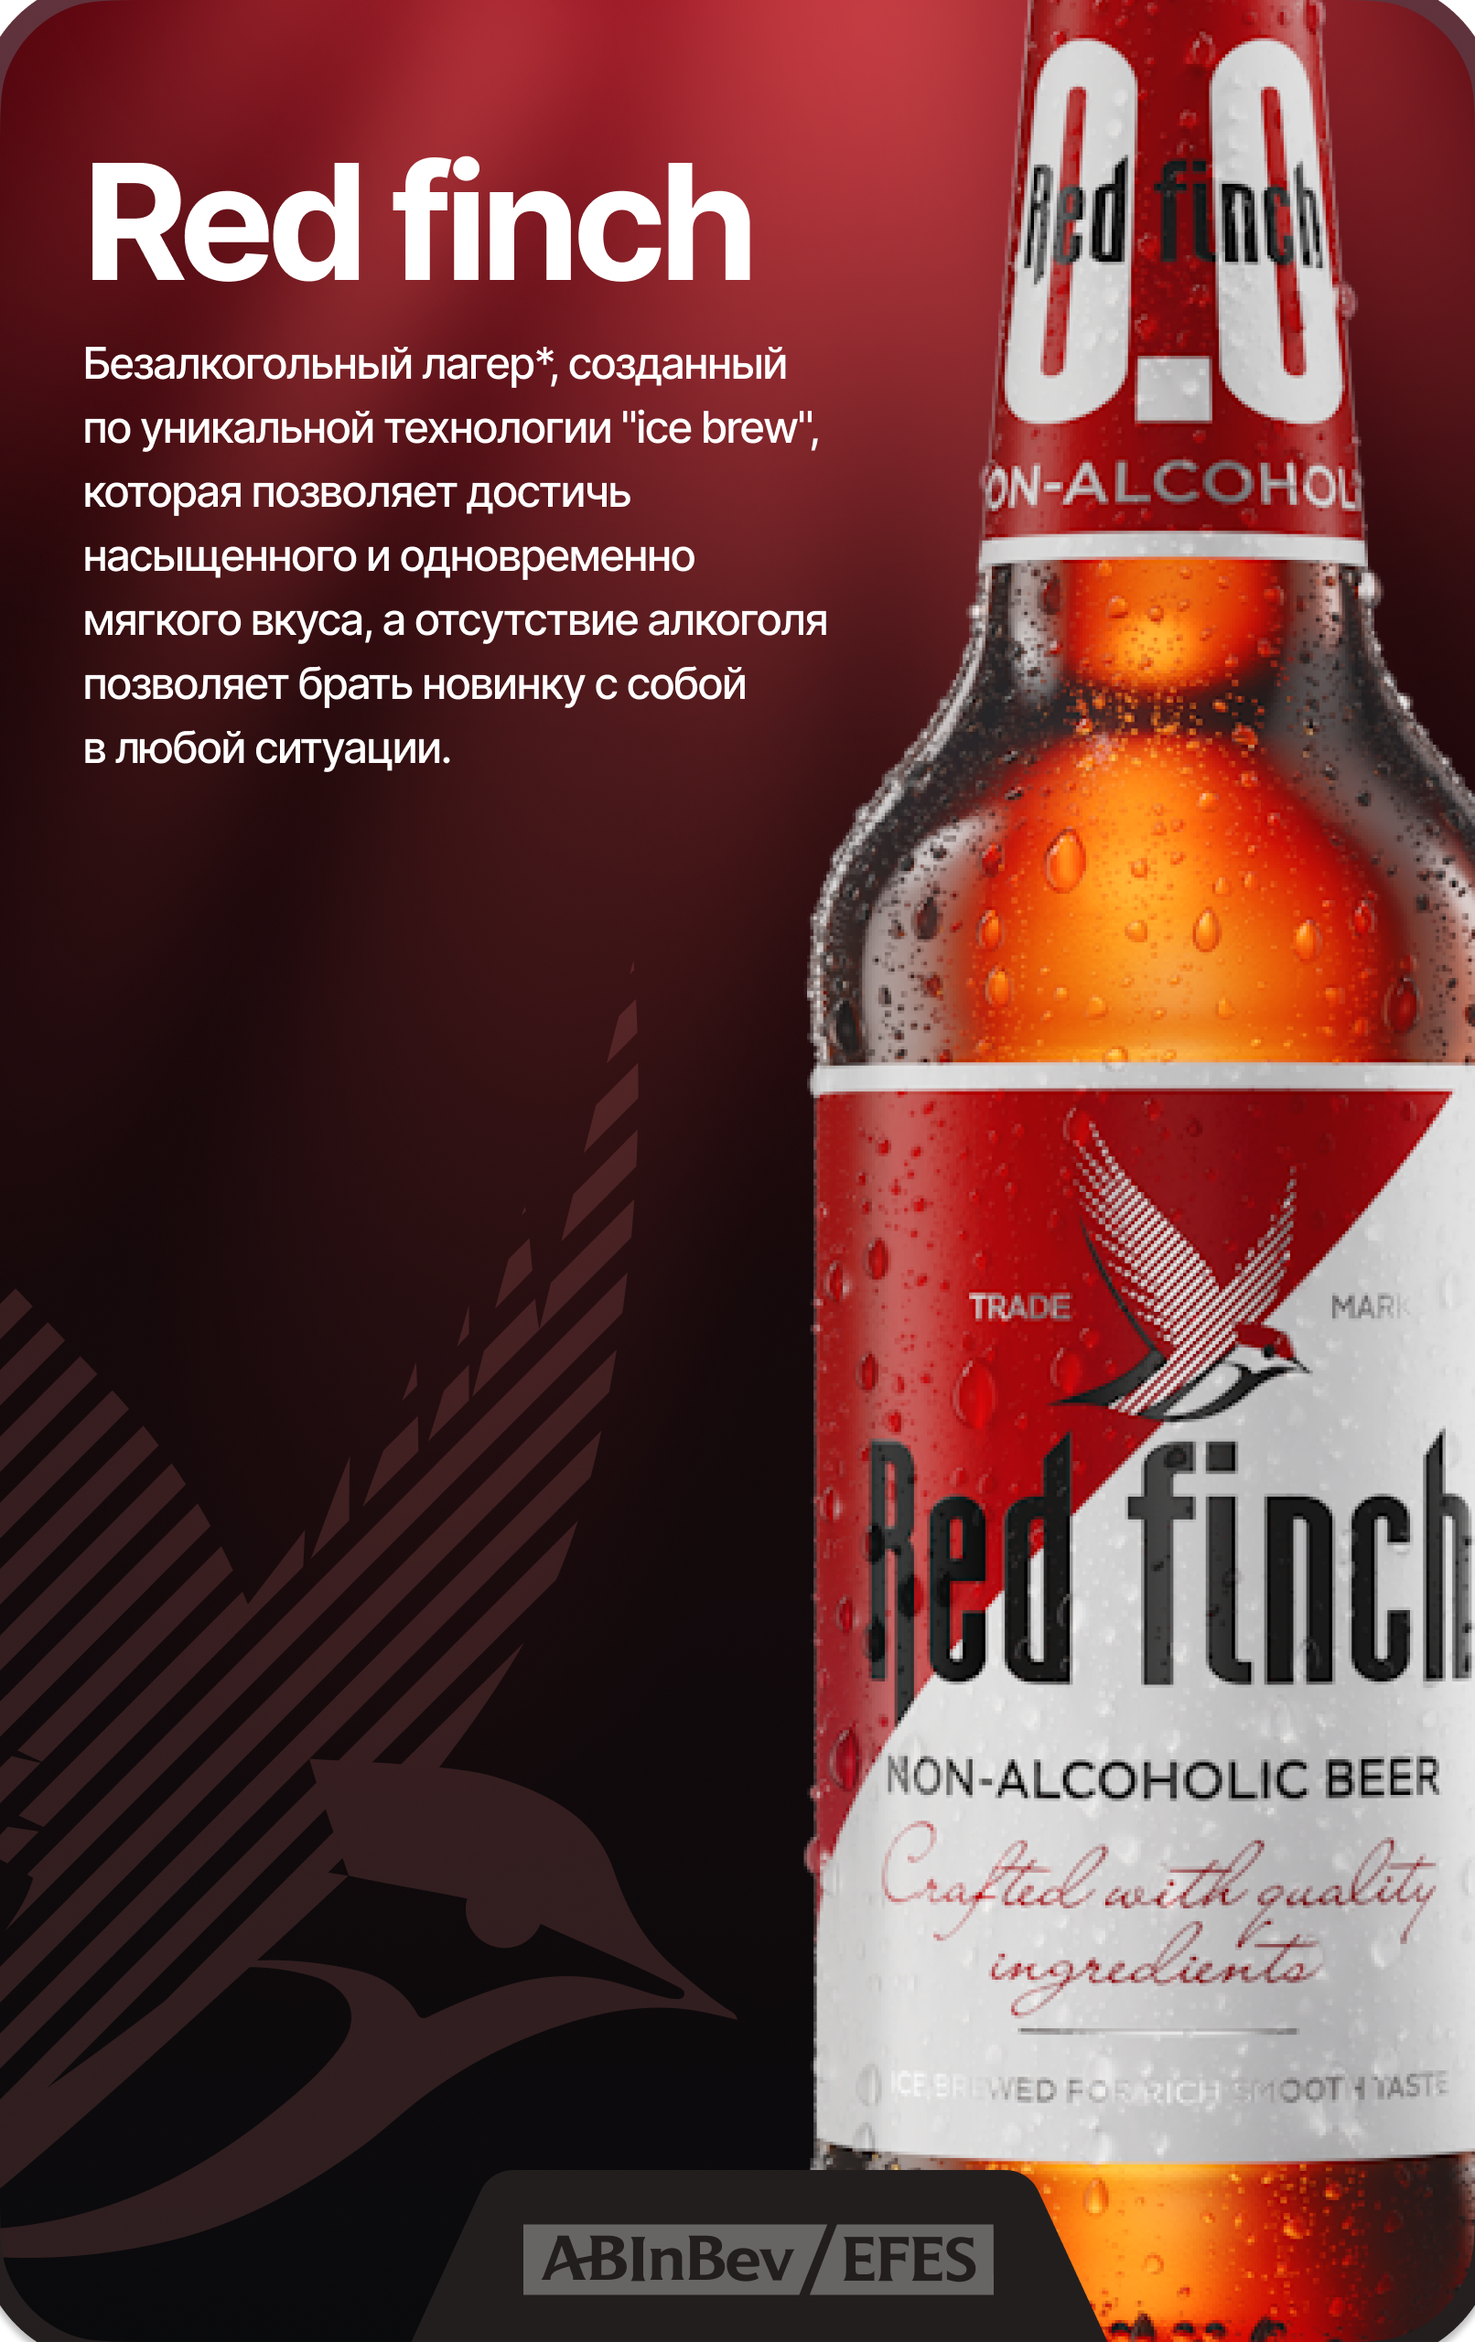
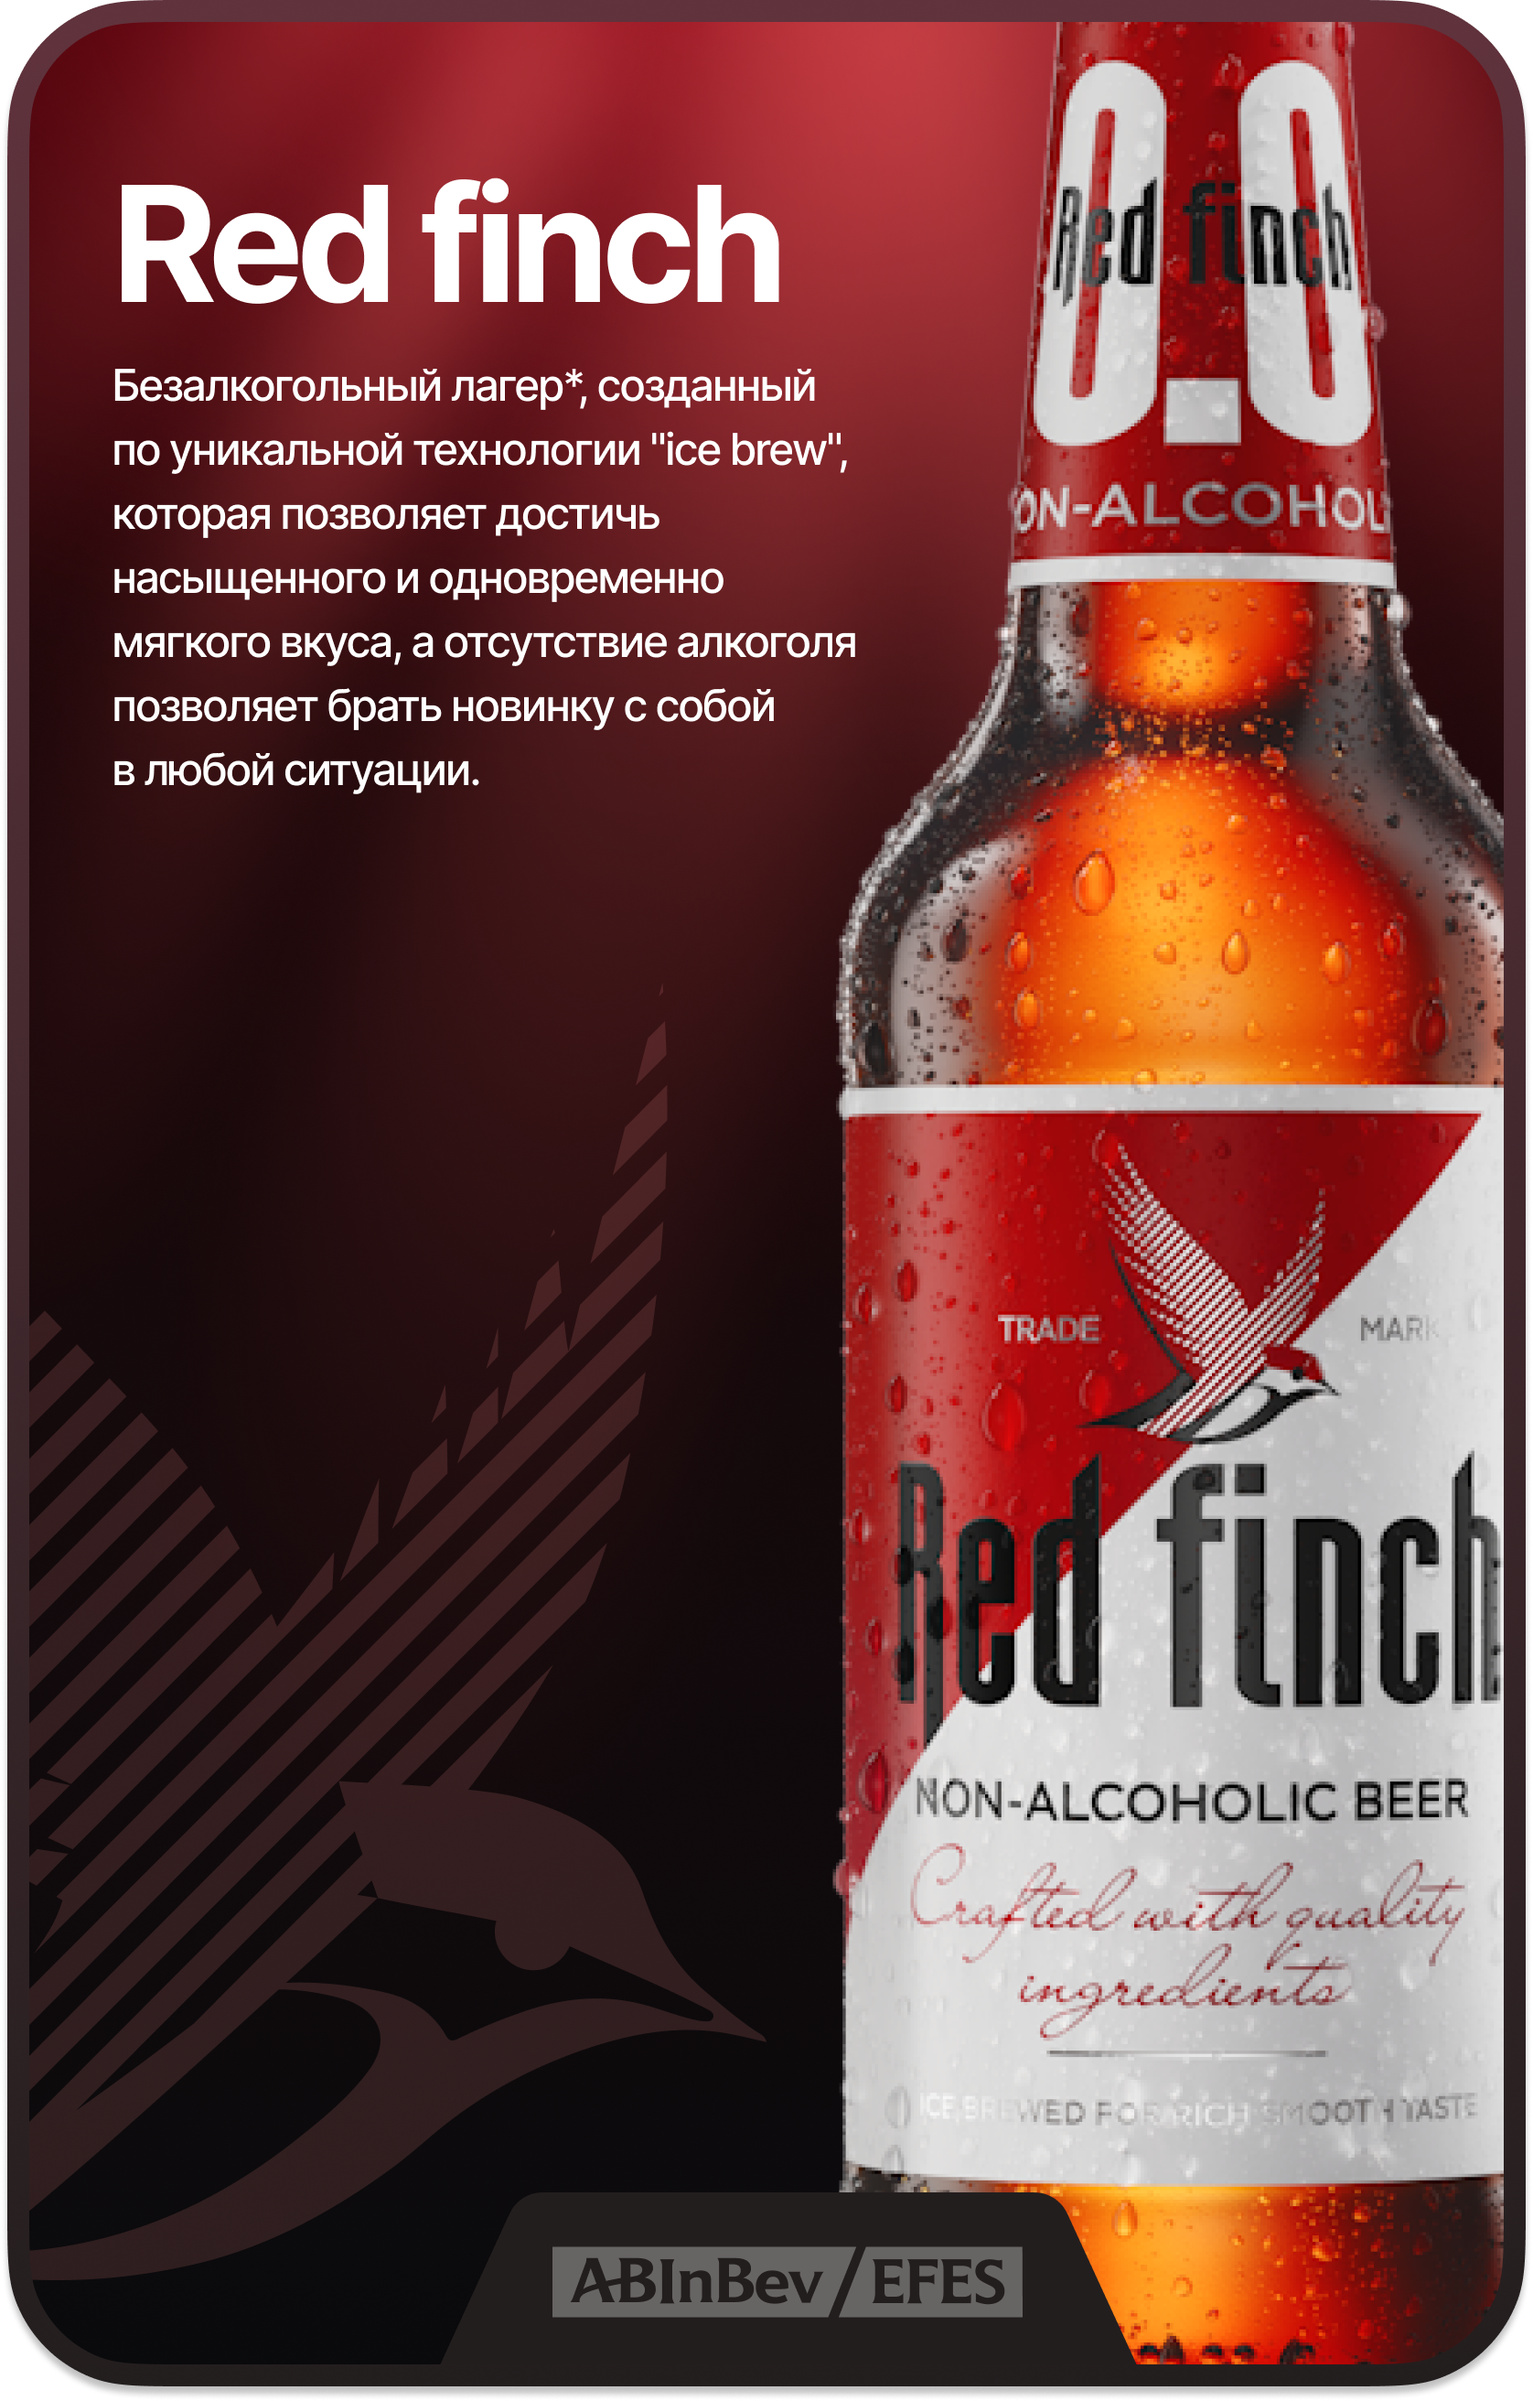
slider fix

diff --git a/src/main.js b/src/main.js
@@ -40,7 +40,9 @@ world.timestep = 1/60 //Sync to 60 Hz
 const canvas = document.querySelector('canvas.webgl')
 
 //Renderer
-const renderer = new THREE.WebGLRenderer({ canvas: canvas, antialias: true, powerPreference: "high-performance"  })
+const renderer = new THREE.WebGLRenderer({ canvas: canvas, antialias: true, powerPreference: "high-performance",   type: THREE.HalfFloatType,
+  format: THREE.RGBAFormat,
+  encoding: THREE.sRGBEncoding,  })
 renderer.setSize(window.innerWidth, window.innerHeight)
 renderer.setPixelRatio(1)
 renderer.setClearColor(backgroundColor)

diff --git a/src/style.css b/src/style.css
@@ -176,6 +176,11 @@ html,body {
   user-select: none;
 }
 
+.swiper-slide {
+  border-radius: 30px;
+  overflow: hidden;
+}
+
 #closeModal {
   cursor: pointer;
   position: absolute;
